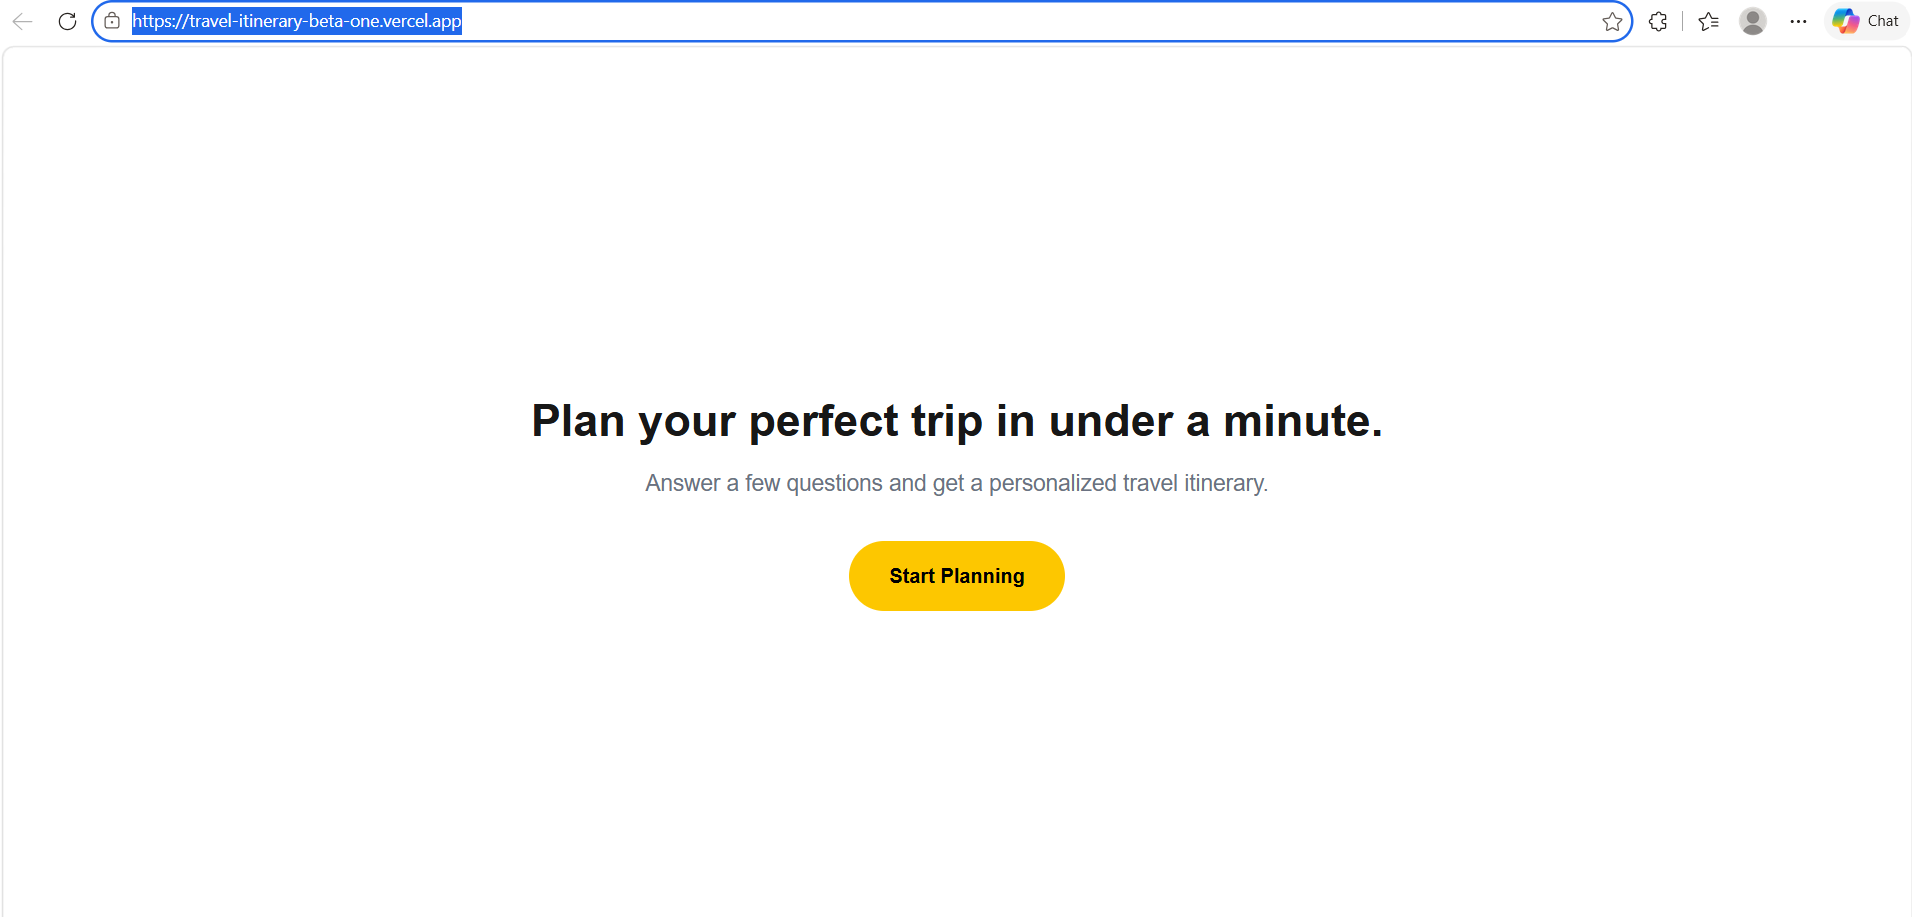
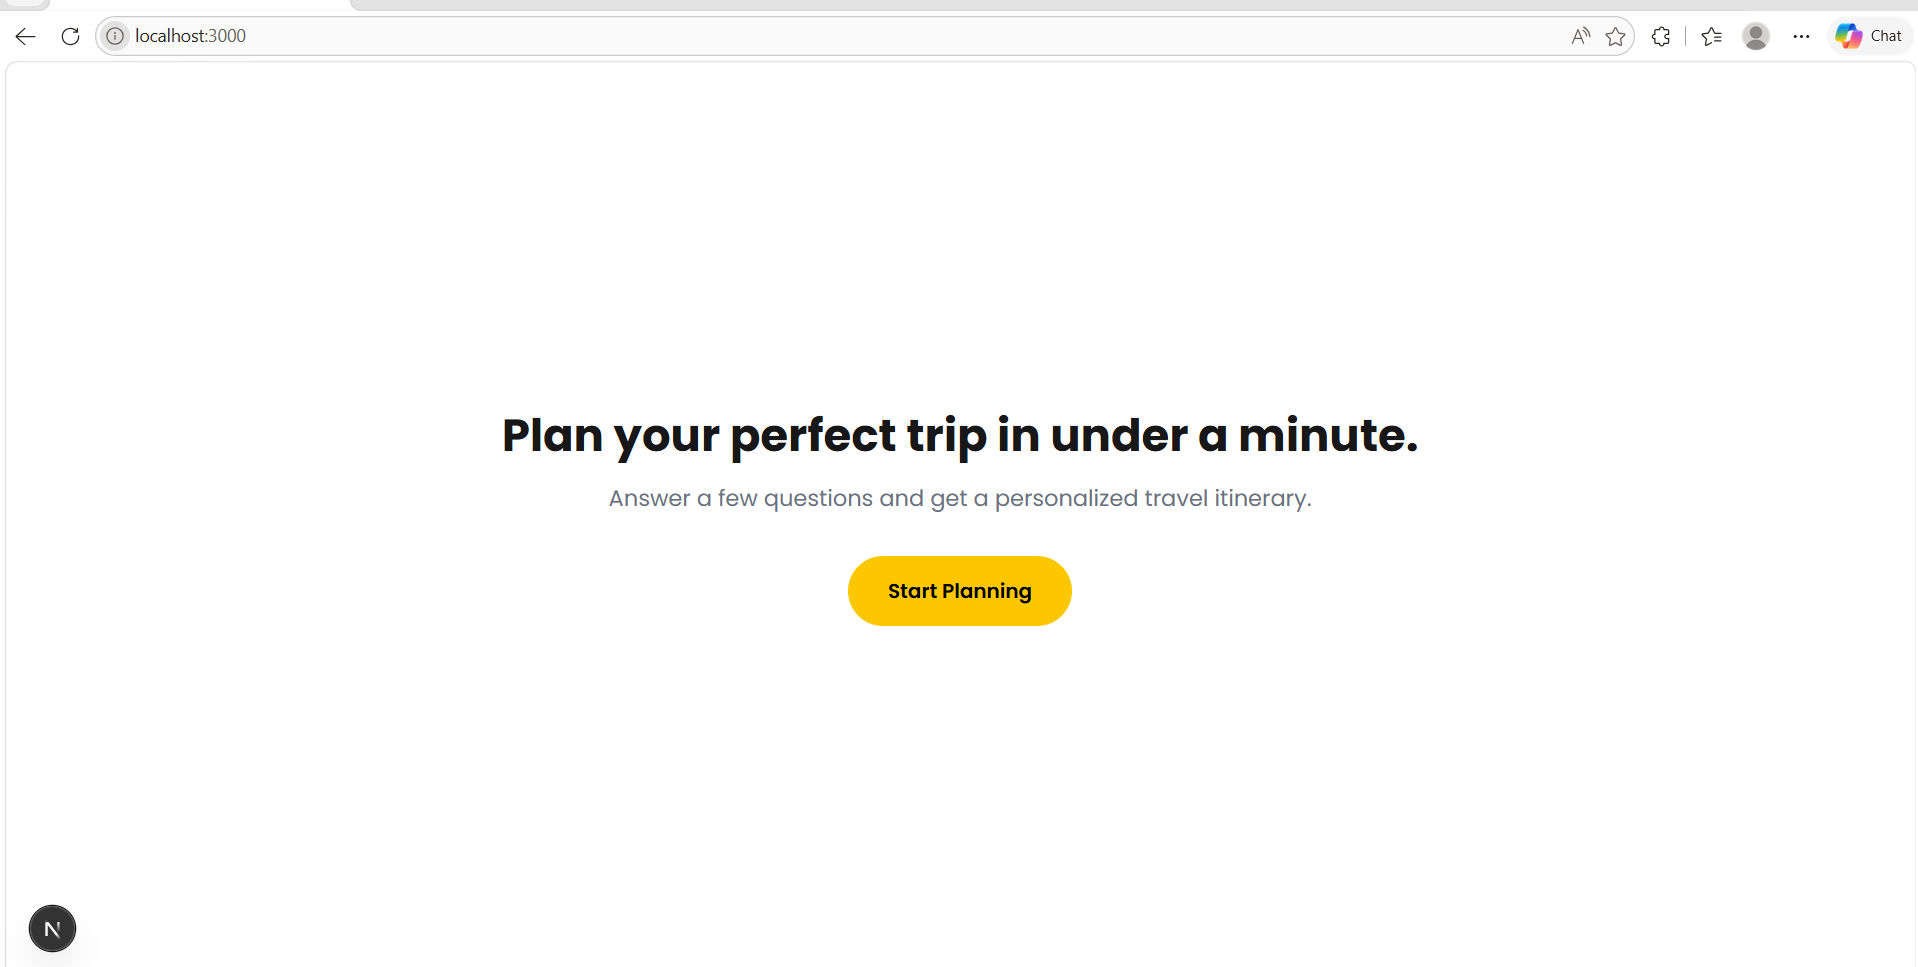
modify readme for current version 3 updates

Changed region(s): [[0.2469, 0.4275, 0.7406, 0.6718], [0.0, 0.0, 1.0, 0.0611], [0.0, 0.916, 0.0617, 1.0]]

diff --git a/app/api/generate-itinerary/route.ts b/app/api/generate-itinerary/route.ts
@@ -179,75 +179,7 @@ export async function POST(request: Request) {
           description: "Večeře ve stylové čtvrti s výhledem na západ slunce.",
         },
       ],
-    },
-    {
-      dayNumber: 7,
-      activities: [
-        {
-          time: "08:30",
-          description: "Výlet k nedalekému jezeru nebo pobřeží, pronájem lodiček.",
-        },
-        {
-          time: "13:00",
-          description: "Čerstvý rybí oběd přímo v přístavu.",
-        },
-        {
-          time: "16:30",
-          description: "Procházka po malebných útesech a focení panoramat.",
-        },
-      ],
-    },
-    {
-      dayNumber: 8,
-      activities: [
-        {
-          time: "10:00",
-          description: "Galerie moderního umění a interaktivní vědecká výstava.",
-        },
-        {
-          time: "14:30",
-          description: "Degustace místních vín nebo řemeslných piv s odborným výkladem.",
-        },
-        {
-          time: "18:30",
-          description: "Volný večer na nasávání atmosféry v uličkách starého města.",
-        },
-      ],
-    },
-    {
-      dayNumber: 9,
-      activities: [
-        {
-          time: "09:00",
-          description: "Půjčení kol a cyklovýlet podél řeky k historickému hradu.",
-        },
-        {
-          time: "13:30",
-          description: "Tradiční občerstvení v podhradí.",
-        },
-        {
-          time: "17:00",
-          description: "Návrat do města a nákup posledních drobností.",
-        },
-      ],
-    },
-    {
-      dayNumber: 10,
-      activities: [
-        {
-          time: "09:00",
-          description: "Poslední ranní káva a snídaně v oblíbené kavárně.",
-        },
-        {
-          time: "11:00",
-          description: "Balení věcí na hotelu a závěrečný check-out.",
-        },
-        {
-          time: "14:00",
-          description: "Přesun na letiště a odlet domů.",
-        },
-      ],
-    },
+    }
   ],
 };
 

diff --git a/README.md b/README.md
@@ -10,6 +10,8 @@ This is a full-stack web application built with [Next.js](https://nextjs.org). T
 ![alt text](./screenshots/first.png)
 - Example of one question in the questionnaire (first UI look)
 ![alt text](./screenshots/second.png)
+- UI of loading page
+![alt text](./screenshots/fourth.png)
 - Result page (The final recommendation generated by the scoring algorithm)
 ![alt text](./screenshots/third.png)
 
@@ -28,13 +30,18 @@ In this version, it loads database and compares the relative object properties w
 
 After user finishes the questionnaire, API route is called, directing to the scoring algorithm, which gives the result and displays it on final result page. 
 
-Updates made in v2:
-- Added 8 new destinations (14 total)
-- Added lifestyle preferences (solo, pair, friends, family)
-- Added travel type (relaxation, sightseeing, adventure)
-- Added stay vs. explore preference
-- Improved scoring weights - lifestyle tags (+5), travel type (+4), activities (+2)
-- Added hard filters - incompatible climate and budget differences result in elimination
+Updates made in v3 so far:
+- added LLM princple - modified API route to accept AI promts (currently implementing fallback mock data due to API rate limiting exhaution during development, therefore I have testing MOCK json file that I used to test result page while modifying)
+- changed font from default to Poppins
+- added loading state
+- changed result page architecture using nested mappings for days, added main wrapper to accept more than one A4 page
+- dynamic generation of pages showing days and its activities
+- basic PDF export
+
+Update to be made in this version:
+- figure out how to sort out overused AI broker - maybe consider using a different one
+- improve the style and UI of the PDF export - for now it's very basic
+- add map on the last page showing the places to visit - modify AI prompt
 
 ## How to run locally
 
